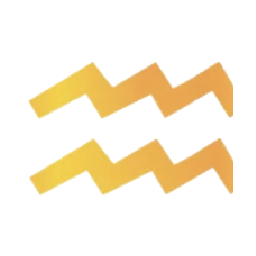
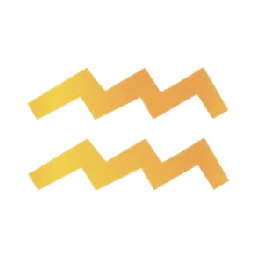
fix(branding): use dedicated Sagittario and Acquario glyphs and fix dictionary mapping in ZodiacGlyph

diff --git a/src/components/ui/ZodiacGlyph.jsx b/src/components/ui/ZodiacGlyph.jsx
@@ -1,24 +1,55 @@
 import React from 'react';
 
+const SIGN_MAP = {
+  ariete: 'ariete',
+  aries: 'ariete',
+  toro: 'toro',
+  taurus: 'toro',
+  gemelli: 'gemelli',
+  gemini: 'gemelli',
+  cancro: 'cancro',
+  cancer: 'cancro',
+  leone: 'leone',
+  leo: 'leone',
+  vergine: 'vergine',
+  virgo: 'vergine',
+  bilancia: 'bilancia',
+  libra: 'bilancia',
+  scorpione: 'scorpione',
+  scorpio: 'scorpione',
+  sagittario: 'sagittario',
+  sagittarius: 'sagittario',
+  capricorno: 'capricorno',
+  capricornus: 'capricorno',
+  capricorn: 'capricorno',
+  acquario: 'acquario',
+  aquarius: 'acquario',
+  pesci: 'pesci',
+  pisces: 'pesci',
+};
+
 /**
  * Authentic, ultra-crisp glyphs extracted directly from curator assets for all 12 Zodiac signs.
  */
 export default function ZodiacGlyph({ sign, className = 'w-5 h-5', color, variant = 'gold' }) {
-  const normalized = (sign || '').toLowerCase().trim();
+  const raw = (sign || '').toLowerCase().trim();
 
-  let signId = 'ariete';
-  if (normalized.includes('ari')) signId = 'ariete';
-  else if (normalized.includes('tor') || normalized.includes('tau')) signId = 'toro';
-  else if (normalized.includes('gem')) signId = 'gemelli';
-  else if (normalized.includes('can')) signId = 'cancro';
-  else if (normalized.includes('leo') || normalized.includes('leon')) signId = 'leone';
-  else if (normalized.includes('ver') || normalized.includes('vir')) signId = 'vergine';
-  else if (normalized.includes('bil') || normalized.includes('lib')) signId = 'bilancia';
-  else if (normalized.includes('sco')) signId = 'scorpione';
-  else if (normalized.includes('sag')) signId = 'sagittario';
-  else if (normalized.includes('cap')) signId = 'capricorno';
-  else if (normalized.includes('acq') || normalized.includes('aqu')) signId = 'acquario';
-  else if (normalized.includes('pes') || normalized.includes('pis')) signId = 'pesci';
+  let signId = SIGN_MAP[raw];
+  if (!signId) {
+    if (raw.startsWith('sag')) signId = 'sagittario';
+    else if (raw.startsWith('acq') || raw.startsWith('aqu')) signId = 'acquario';
+    else if (raw.startsWith('ari')) signId = 'ariete';
+    else if (raw.startsWith('tor') || raw.startsWith('tau')) signId = 'toro';
+    else if (raw.startsWith('gem')) signId = 'gemelli';
+    else if (raw.startsWith('can')) signId = 'cancro';
+    else if (raw.startsWith('leo')) signId = 'leone';
+    else if (raw.startsWith('ver') || raw.startsWith('vir')) signId = 'vergine';
+    else if (raw.startsWith('bil') || raw.startsWith('lib')) signId = 'bilancia';
+    else if (raw.startsWith('sco')) signId = 'scorpione';
+    else if (raw.startsWith('cap')) signId = 'capricorno';
+    else if (raw.startsWith('pes') || raw.startsWith('pis')) signId = 'pesci';
+    else signId = 'ariete';
+  }
 
   const isWhite = color === '#ffffff' || color === 'white' || variant === 'white';
   const glyphSrc = isWhite ? `/images/glyphs/white/${signId}.png` : `/images/glyphs/gold/${signId}.png`;
